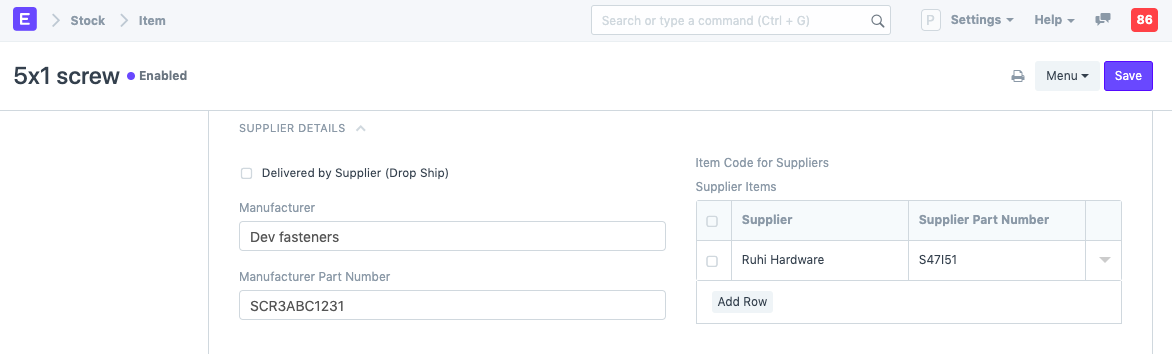
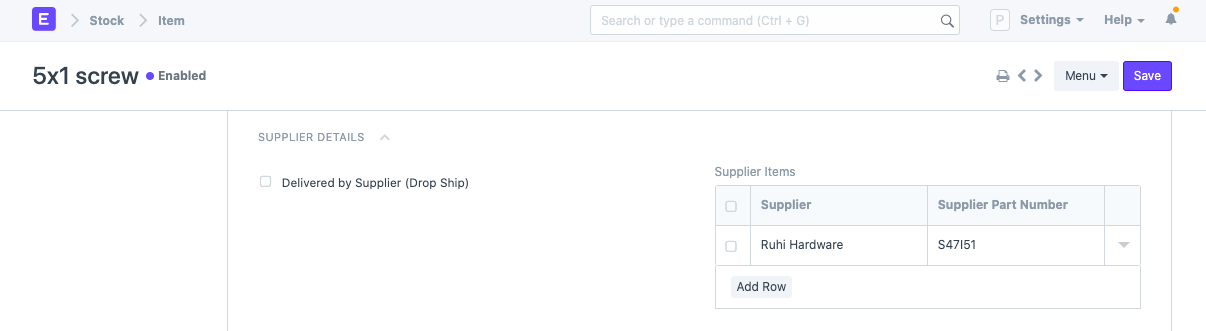
update item for manufacturer and supplier (#100)
* update item for manufacturer and supplier

* add item manufacturer

* add Item Manufacturer details

diff --git a/erpnext_documentation/www/docs/user/manual/en/stock/item.md b/erpnext_documentation/www/docs/user/manual/en/stock/item.md
@@ -180,8 +180,6 @@ In this section, you can define Company-wide transaction-related defaults for th
 ### 3.11 Supplier Details
 
 * **Delivered by Supplier (Drop Ship)**: If the item is delivered directly by the supplier to the customer, tick this checkbox. Read more [here](/docs/user/manual/en/selling/articles/drop-shipping).
-* **Manufacturer:** Select the Manufacturer who manufactured this item.
-* **Manufacturer Part Number:** Enter the manufacturer part number that the manufacturer has assigned to this item.
 * **Supplier Codes:** Track Item Code defined by the Suppliers for this Item. In the Purchase transactions, on selecting an Item, a Supplier Part No. will be fetched as well for the Supplier's reference. You can read more about it [here](/docs/user/manual/en/buying/articles/maintaining-suppliers-part-no-in-item).
 
   ![Item Supplier Details](/docs/assets/img/stock/item-supplier.png)
@@ -242,6 +240,18 @@ To know more about Quality Inspection, [click here](/docs/user/manual/en/stock/q
 
 * **Default BOM**: The default [Bill of Materials](/docs/user/manual/en/manufacturing/bill-of-materials) used to manufacture this Item.
 * **Supply Raw Materials for Purchase**:  If you're subcontracting to a vendor, you can choose to provide them with the raw materials to manufacture the item using the default BOM.
+* **Manufacturer:** Select the Manufacturer who manufactured this item.
+* **Manufacturer Part Number:** Enter the manufacturer part number that the manufacturer has assigned to this item.
+
+  ![Item Manufacturing](/docs/assets/img/stock/item-manufacturing.png)
+
+* The manufacturer details appear after you've created an 'Item Manufacturer' from the dashboard and selected that record as default. Here, add details for:
+  * Item Code
+  * Enter the manufacturer name
+  * Enter the part number the manufacturer uses to identify this item
+  * Select 'Is Default' to show the manufacturer and part number in the Item record
+
+  ![Item Manufacturer](/docs/assets/img/stock/item-manufacturer.png)
 
 ### 3.19  Website
 
